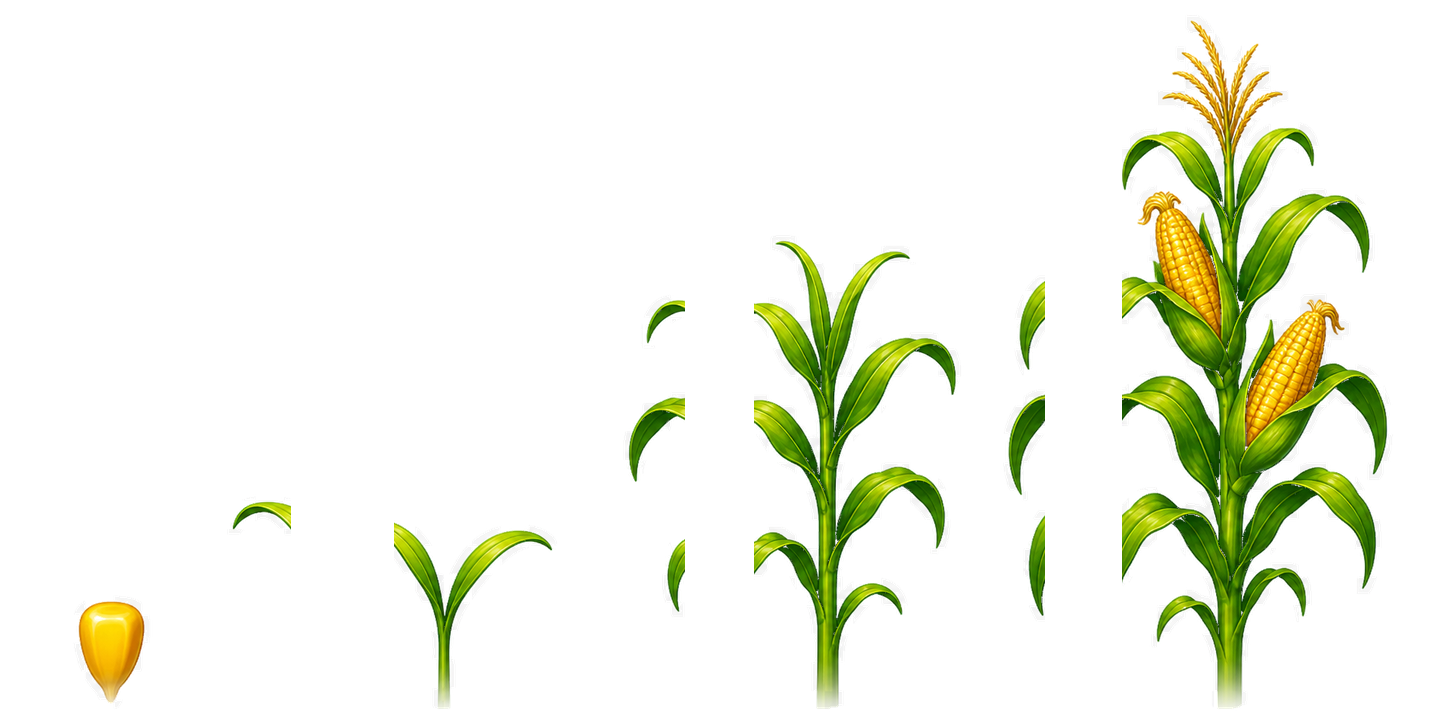
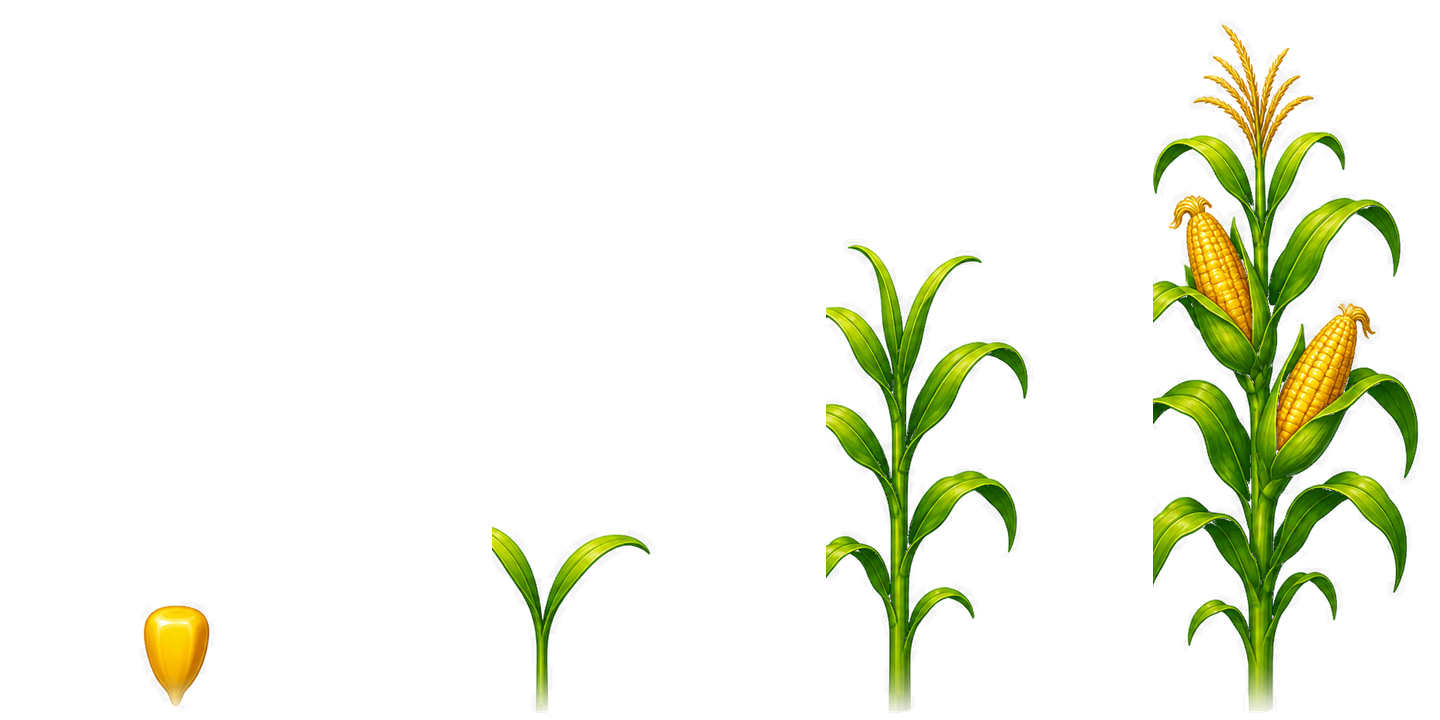
Fix crop sheets: one plant per frame, no gutter scraps.
Generated 1440×720 sheets packed leftover leaves from the next
stage into each cell. Those scraps rendered as mystery foliage
beside the seed. Keep only the stem-bearing blob, recenter it,
and seat stems on hand-picked pebble-ring UVs.

diff --git a/apps/player/src/pixi/playfieldLayout.ts b/apps/player/src/pixi/playfieldLayout.ts
@@ -41,53 +41,50 @@ export const PLAYFIELD_LAYOUT = {
     {
       hit: { u0: 0.02, v0: 0.4, u1: 0.32, v1: 0.9 } satisfies UvRect,
       sign: { u: 0.163, v: 0.484 } satisfies Uv,
-      soil: { u0: 0.09, v0: 0.63, u1: 0.27, v1: 0.80 } satisfies UvRect,
-      /**
-       * Stem anchors: dark-dirt peaks on the v3 playfield (column scan, 3 maxima).
-       * Front row must stay above the picket gate — v≈0.80 samples wood.
-       */
+      soil: { u0: 0.09, v0: 0.62, u1: 0.27, v1: 0.78 } satisfies UvRect,
+      /** Hand-picked pebble-ring centers on the v3 painting (slightly deep in the dirt). */
       mounds: [
-        { u: 0.108, v: 0.654 },
-        { u: 0.179, v: 0.655 },
-        { u: 0.253, v: 0.656 },
-        { u: 0.106, v: 0.715 },
-        { u: 0.178, v: 0.715 },
-        { u: 0.253, v: 0.715 },
-        { u: 0.106, v: 0.778 },
-        { u: 0.178, v: 0.775 },
-        { u: 0.251, v: 0.778 },
+        { u: 0.112, v: 0.64 },
+        { u: 0.18, v: 0.64 },
+        { u: 0.248, v: 0.64 },
+        { u: 0.11, v: 0.698 },
+        { u: 0.178, v: 0.698 },
+        { u: 0.248, v: 0.698 },
+        { u: 0.11, v: 0.758 },
+        { u: 0.178, v: 0.758 },
+        { u: 0.246, v: 0.758 },
       ] as const satisfies readonly Uv[],
     },
     {
       hit: { u0: 0.34, v0: 0.4, u1: 0.66, v1: 0.9 } satisfies UvRect,
       sign: { u: 0.495, v: 0.48 } satisfies Uv,
-      soil: { u0: 0.41, v0: 0.63, u1: 0.6, v1: 0.80 } satisfies UvRect,
+      soil: { u0: 0.41, v0: 0.62, u1: 0.59, v1: 0.78 } satisfies UvRect,
       mounds: [
-        { u: 0.428, v: 0.655 },
-        { u: 0.499, v: 0.653 },
-        { u: 0.574, v: 0.657 },
-        { u: 0.43, v: 0.715 },
-        { u: 0.502, v: 0.715 },
-        { u: 0.576, v: 0.715 },
-        { u: 0.428, v: 0.777 },
-        { u: 0.499, v: 0.777 },
-        { u: 0.574, v: 0.779 },
+        { u: 0.432, v: 0.64 },
+        { u: 0.5, v: 0.64 },
+        { u: 0.568, v: 0.64 },
+        { u: 0.432, v: 0.698 },
+        { u: 0.5, v: 0.698 },
+        { u: 0.57, v: 0.698 },
+        { u: 0.432, v: 0.758 },
+        { u: 0.5, v: 0.758 },
+        { u: 0.568, v: 0.758 },
       ] as const satisfies readonly Uv[],
     },
     {
       hit: { u0: 0.66, v0: 0.4, u1: 0.99, v1: 0.9 } satisfies UvRect,
       sign: { u: 0.795, v: 0.484 } satisfies Uv,
-      soil: { u0: 0.72, v0: 0.63, u1: 0.91, v1: 0.80 } satisfies UvRect,
+      soil: { u0: 0.72, v0: 0.62, u1: 0.91, v1: 0.78 } satisfies UvRect,
       mounds: [
-        { u: 0.738, v: 0.657 },
-        { u: 0.813, v: 0.656 },
-        { u: 0.889, v: 0.657 },
-        { u: 0.736, v: 0.715 },
-        { u: 0.814, v: 0.715 },
-        { u: 0.893, v: 0.716 },
-        { u: 0.739, v: 0.778 },
-        { u: 0.814, v: 0.776 },
-        { u: 0.889, v: 0.778 },
+        { u: 0.744, v: 0.64 },
+        { u: 0.814, v: 0.64 },
+        { u: 0.882, v: 0.64 },
+        { u: 0.744, v: 0.698 },
+        { u: 0.814, v: 0.698 },
+        { u: 0.884, v: 0.698 },
+        { u: 0.744, v: 0.758 },
+        { u: 0.814, v: 0.758 },
+        { u: 0.882, v: 0.758 },
       ] as const satisfies readonly Uv[],
     },
   ],

diff --git a/apps/player/src/pixi/paintedAssets.ts b/apps/player/src/pixi/paintedAssets.ts
@@ -2,16 +2,29 @@ import { CROP_KINDS, type CropKind } from "@farmhand/shared";
 import { Assets, Rectangle, Texture } from "pixi.js";
 
 export const CROP_STAGE_FRAMES = 4;
-/** Plant-only sheets: 1440×720, four equal cells, stem at the bottom of each cell. */
+/** Plant-only sheets: 1440×720, four equal cells. Stems are NOT at cell-center. */
 export const CROP_SHEET = { width: 1440, height: 720, frames: 4 } as const;
 export const CROP_FRAME_WIDTH = CROP_SHEET.width / CROP_SHEET.frames;
 export const CROP_FRAME_HEIGHT = CROP_SHEET.height;
-/** Pixi sprite pivot: bottom-center of the stem/seed, seated in the painted mound. */
+/**
+ * Stem/seed in each cleaned 360×720 cell (gutter scraps removed, stem recentered).
+ * One connected blob per frame; pivot is bottom-center of that stem.
+ */
+const STEM = { x: 180, y: 712 } as const;
+export const CROP_STEM_IN_CELL: Record<CropKind, ReadonlyArray<{ x: number; y: number }>> = {
+  corn: [STEM, STEM, STEM, STEM],
+  strawberry: [STEM, STEM, STEM, STEM],
+  cotton: [STEM, STEM, STEM, STEM],
+};
+/** Fallback when a frame has no measured stem. */
 export const PLANT_STEM_ANCHOR = { x: 0.5, y: 1 } as const;
-/** On-texture height of a full crop frame on the farm playfield (mature corn fills most of the cell). */
-export const FARM_PLANT_HEIGHT_PX = 50;
+/** On-texture height of a full crop frame on the farm playfield. */
+export const FARM_PLANT_HEIGHT_PX = 46;
+/** Extra pixels down so the stem sits in the dirt, not on the highlight. */
+export const FARM_PLANT_BURY_PX = 3;
 /** On-texture height of a full crop frame in the zoomed garden. */
-export const ZOOM_PLANT_HEIGHT_PX = 220;
+export const ZOOM_PLANT_HEIGHT_PX = 200;
+export const ZOOM_PLANT_BURY_PX = 10;
 
 /** Padded 4-frame eat/graze PNG with real alpha (equal cells; Pixi insets so frames never share pixels). */
 export const COW_EAT_SHEET = { width: 1704, height: 304, frames: 4 } as const;
@@ -72,6 +85,18 @@ export function sliceSheet(texture: Texture, frames: number, inset: number = SHE
 
 export function cropStageFrame(crops: Record<CropKind, Texture[]>, kind: CropKind, stage: 1 | 2 | 3 | 4): Texture {
   return crops[kind]?.[stage - 1] ?? Texture.EMPTY;
+}
+
+/** Pixi pivot for a sliced crop frame so the stem, not the cell midpoint, sits on the UV. */
+export function cropStemAnchor(kind: CropKind, stage: 1 | 2 | 3 | 4) {
+  const cell = CROP_STEM_IN_CELL[kind]?.[stage - 1];
+  if (!cell) return { x: PLANT_STEM_ANCHOR.x, y: PLANT_STEM_ANCHOR.y };
+  const fw = CROP_FRAME_WIDTH - SHEET_INSET * 2;
+  const fh = CROP_FRAME_HEIGHT - SHEET_INSET * 2;
+  return {
+    x: (cell.x - SHEET_INSET) / fw,
+    y: (cell.y - SHEET_INSET) / fh,
+  };
 }
 
 export async function loadPaintedArt(): Promise<PaintedArt> {

diff --git a/apps/player/src/pixi/GardenScene.ts b/apps/player/src/pixi/GardenScene.ts
@@ -11,9 +11,10 @@ import {
 } from "./gardenLayout";
 import {
   CROP_FRAME_HEIGHT,
-  PLANT_STEM_ANCHOR,
+  ZOOM_PLANT_BURY_PX,
   ZOOM_PLANT_HEIGHT_PX,
   cropStageFrame,
+  cropStemAnchor,
   type PaintedArt,
 } from "./paintedAssets";
 import { uvToLocal } from "./playfieldLayout";
@@ -178,7 +179,7 @@ class PlotNode {
     this.glow.blendMode = "add";
     this.glow.visible = false;
     this.sparkle = new SparkleField(atlas, 8);
-    this.plant.anchor.set(PLANT_STEM_ANCHOR.x, PLANT_STEM_ANCHOR.y);
+    this.plant.anchor.set(0.5, 1);
     this.label = new Text({
       text: "",
       style: {
@@ -200,6 +201,7 @@ class PlotNode {
     const { rx, ry } = GARDEN_ZOOM_LAYOUT.hit;
     this.cropScale = (ZOOM_PLANT_HEIGHT_PX * s) / CROP_FRAME_HEIGHT;
     this.plant.scale.set(this.cropScale);
+    this.plant.position.set(0, ZOOM_PLANT_BURY_PX * s);
     this.glow.position.set(0, -18 * s);
     this.glow.scale.set(2.2 * s);
     this.sparkle.root.position.set(0, -22 * s);
@@ -224,7 +226,10 @@ class PlotNode {
       this.label.visible = false;
       return;
     }
-    this.plant.texture = cropStageFrame(this.painted.crops, cropKindForTier(plot.tier), plot.growthStage);
+    const kind = cropKindForTier(plot.tier);
+    this.plant.texture = cropStageFrame(this.painted.crops, kind, plot.growthStage);
+    const pivot = cropStemAnchor(kind, plot.growthStage);
+    this.plant.anchor.set(pivot.x, pivot.y);
     this.plant.visible = true;
     this.label.visible = true;
     this.label.text = plot.ready ? "READY" : formatCountdown(plot.remainingMs);

diff --git a/apps/player/src/pixi/FarmScene.ts b/apps/player/src/pixi/FarmScene.ts
@@ -8,9 +8,10 @@ import type { PixiEngine } from "./engine";
 import { SparkleField } from "./fx";
 import {
   CROP_FRAME_HEIGHT,
+  FARM_PLANT_BURY_PX,
   FARM_PLANT_HEIGHT_PX,
-  PLANT_STEM_ANCHOR,
   cropStageFrame,
+  cropStemAnchor,
   type PaintedArt,
 } from "./paintedAssets";
 import {
@@ -217,7 +218,7 @@ class GardenHotspot {
     this.sparkle = new SparkleField(atlas, 8);
     for (let i = 0; i < PLAYABLE_PLOT_SLOTS; i++) {
       const spr = new Sprite();
-      spr.anchor.set(PLANT_STEM_ANCHOR.x, PLANT_STEM_ANCHOR.y);
+      spr.anchor.set(0.5, 1);
       spr.visible = false;
       this.plants.push(spr);
     }
@@ -249,7 +250,7 @@ class GardenHotspot {
     this.plants.forEach((spr, slot) => {
       const uv = moundUv(this.spec, slot);
       const p = uvToLocal(uv, texW, texH);
-      spr.position.set(p.x, p.y);
+      spr.position.set(p.x, p.y + FARM_PLANT_BURY_PX);
       spr.scale.set(this.cropScale);
     });
     this.sparkle.root.position.set((soil.x0 + soil.x1) / 2, (soil.y0 + soil.y1) / 2);
@@ -275,7 +276,10 @@ class GardenHotspot {
         spr.visible = false;
         return;
       }
-      spr.texture = cropStageFrame(this.painted.crops, cropKindForTier(plot.tier), stage);
+      const kind = cropKindForTier(plot.tier);
+      spr.texture = cropStageFrame(this.painted.crops, kind, stage);
+      const pivot = cropStemAnchor(kind, stage);
+      spr.anchor.set(pivot.x, pivot.y);
       spr.visible = true;
       spr.scale.set(this.cropScale);
     });

diff --git a/apps/player/src/pixi/paintedAssets.test.ts b/apps/player/src/pixi/paintedAssets.test.ts
@@ -1,6 +1,14 @@
 import assert from "node:assert/strict";
 import test from "node:test";
-import { CROP_FRAME_WIDTH, CROP_SHEET, COW_EAT_SHEET, PAINTED_ART, sheetFrameRects, SHEET_INSET } from "./paintedAssets.ts";
+import {
+  CROP_FRAME_WIDTH,
+  CROP_SHEET,
+  COW_EAT_SHEET,
+  PAINTED_ART,
+  cropStemAnchor,
+  sheetFrameRects,
+  SHEET_INSET,
+} from "./paintedAssets.ts";
 
 test("walk uses two separate textures, not a combined walk/eat sheet", () => {
   assert.equal(PAINTED_ART.cowWalk.length, 2);
@@ -12,6 +20,16 @@ test("walk uses two separate textures, not a combined walk/eat sheet", () => {
   assert.ok(PAINTED_ART.cowWalk.every((url) => url.endsWith(".png")));
   assert.ok(PAINTED_ART.playfield.includes("v3_no_static_cow"));
   assert.equal(PAINTED_ART.gardenZoom, "/art/painted/garden/garden_zoom_3x3.jpg");
+});
+
+test("cleaned crop frames pivot on a centered stem, not the cell midpoint leftover", () => {
+  for (const kind of ["corn", "strawberry", "cotton"] as const) {
+    for (const stage of [1, 2, 3, 4] as const) {
+      const a = cropStemAnchor(kind, stage);
+      assert.ok(Math.abs(a.x - 0.5) < 0.03, `${kind} ${stage} x=${a.x}`);
+      assert.ok(a.y > 0.98 && a.y <= 1, `${kind} ${stage} y=${a.y}`);
+    }
+  }
 });
 
 test("crop sheets are plant-only equal cells with stem at the bottom", () => {

diff --git a/apps/player/src/pixi/gardenLayout.ts b/apps/player/src/pixi/gardenLayout.ts
@@ -28,15 +28,15 @@ export const GARDEN_TOOL_LABEL: Record<GardenTool, string> = {
 export const GARDEN_ZOOM_LAYOUT = {
   sign: { u: 0.5, v: 0.145 } satisfies Uv,
   mounds: [
-    { u: 0.28, v: 0.285 },
-    { u: 0.5, v: 0.285 },
-    { u: 0.72, v: 0.285 },
-    { u: 0.28, v: 0.505 },
-    { u: 0.5, v: 0.505 },
-    { u: 0.72, v: 0.505 },
-    { u: 0.28, v: 0.725 },
-    { u: 0.5, v: 0.725 },
-    { u: 0.72, v: 0.725 },
+    { u: 0.28, v: 0.31 },
+    { u: 0.5, v: 0.31 },
+    { u: 0.72, v: 0.31 },
+    { u: 0.28, v: 0.528 },
+    { u: 0.5, v: 0.528 },
+    { u: 0.72, v: 0.528 },
+    { u: 0.28, v: 0.742 },
+    { u: 0.5, v: 0.742 },
+    { u: 0.72, v: 0.742 },
   ] as const satisfies readonly Uv[],
   /** Hit ellipse in texture pixels around each mound center. */
   hit: { rx: 110, ry: 78 } as const,

diff --git a/apps/player/src/pixi/playfieldLayout.test.ts b/apps/player/src/pixi/playfieldLayout.test.ts
@@ -117,8 +117,8 @@ test("nine playable mounds sit on measured mound peaks, not a soil-rect lerp", (
   assert.ok(slots[6].v - slots[0].v > 0.11);
   assert.ok(slots[0].u > 0.09 && slots[0].u < 0.13);
   assert.ok(slots[8].u > 0.23 && slots[8].u < 0.27);
-  assert.ok(slots[0].v > 0.64 && slots[0].v < 0.67, "back row is the rear mound peaks, not the soil above them");
-  assert.ok(slots[6].v > 0.76 && slots[6].v < 0.79, "front row stays on dirt, above the picket gate");
+  assert.ok(slots[0].v >= 0.63 && slots[0].v < 0.66, "back row is the rear pebble-ring centers");
+  assert.ok(slots[6].v > 0.75 && slots[6].v < 0.77, "front row stays on dirt, above the picket gate");
 });
 
 test("each farm garden has its own 9 mound anchors", () => {
